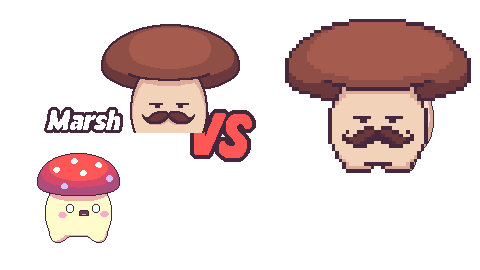
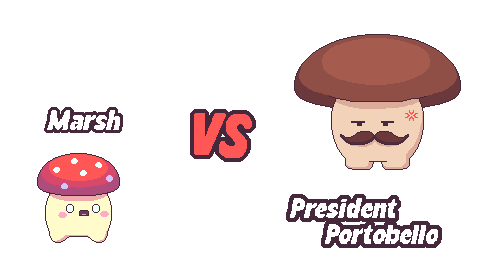
Vs screen graphics + death screen boss names

Changed region(s): [[0.5938, 0.0593, 1.0, 0.6519], [0.1875, 0.0889, 0.5, 0.5037], [0.5938, 0.7111, 0.9375, 0.9185]]

diff --git a/MarshRooms!/Assets/Scripts/BossFights/Bosses/PortobelloBoss.cs b/MarshRooms!/Assets/Scripts/BossFights/Bosses/PortobelloBoss.cs
@@ -260,6 +260,7 @@ public class PortobelloBoss : BossBrain
     private AudioSource burrowLoopSource;
     private bool burrowLoopPausedByUs;
     private readonly List<BaseBullet> activeBullets = new List<BaseBullet>();
+    private string bossName;
 
     protected override void Update()
     {
@@ -290,6 +291,19 @@ public class PortobelloBoss : BossBrain
         weaponAimer = GetComponentInChildren<WeaponAimer>();
         patternShooter = GetComponent<BossPatternShooter>();
         spriteRenderers = GetComponentsInChildren<SpriteRenderer>(true);
+
+        // BossContactDamage's bossName is the single source of truth for "who killed the
+        // player" - every other damage source (bullets, dollar bursts, statues) reads from it
+        // here rather than keeping its own separate copy of the same string.
+        bossName = contact != null ? contact.BossName : "President Portobello";
+        shooter?.SetAttackerName(bossName);
+        patternShooter?.SetAttackerName(bossName);
+
+        if (statueSlots != null)
+        {
+            foreach (StatueController statue in statueSlots)
+                statue?.SetAttackerName(bossName);
+        }
 
         if (throneShadow != null)
         {
@@ -874,6 +888,8 @@ public class PortobelloBoss : BossBrain
         int max = Mathf.Max(min, s.throneActionsMax);
         int actionCount = Random.Range(min, max + 1);
 
+        // A transition visit always has room for both the forced enemies and the forced
+        // laser reveal, even if this phase's normal action-count roll would have been 1.
         if (isTransitionVisit) actionCount = Mathf.Max(actionCount, 2);
 
         ThroneAction? lastThroneAction = null;
@@ -886,7 +902,7 @@ public class PortobelloBoss : BossBrain
             if (i == 0 && s.throneEnemyUsesPerVisit > 0)
                 action = ThroneAction.Enemies;
             else if (isTransitionVisit && i == 1 && activeStatueCount > 0)
-                action = ThroneAction.Statues;
+                action = ThroneAction.Statues; // guaranteed laser reveal right after the forced enemies, transition visits only
             else
                 action = PickThroneAction(s, lastThroneAction, enemyUsesSoFar);
 
@@ -1195,6 +1211,7 @@ public class PortobelloBoss : BossBrain
             PlayerHealth ph = col.GetComponentInParent<PlayerHealth>();
             if (ph == null || ph.IsOnCooldown()) continue;
 
+            ph.SetLastAttacker(bossName);
             ph.TakeDamage(s.burrowSmashDamage);
 
             BaseMover mover = col.GetComponentInParent<BaseMover>();

diff --git a/MarshRooms!/Assets/Scripts/Base/BaseShooter.cs b/MarshRooms!/Assets/Scripts/Base/BaseShooter.cs
@@ -26,7 +26,9 @@ public abstract class BaseShooter : MonoBehaviour
 
     [Header("Split Shot")]
     [SerializeField] private float extraBulletDamageMultiplier = 0.6f;
-    
+
+    public event System.Action<BaseBullet> BulletSpawned;
+
     public bool IsArmed => currentWeapon != null;
 
     protected float nextFireTime = 0f;
@@ -42,6 +44,10 @@ public abstract class BaseShooter : MonoBehaviour
 
     private float bulletSpeedMultiplier = 1f;
     protected float shakeMultiplier = 1f;
+
+    // Who this shooter's bullets should attribute a player death to - set by EnemyController
+    // (from EnemyData.enemyName) for regular enemies, or by the boss's own script for bosses.
+    private string attackerName;
 
     // Fire Rate Multipiers
     private float permanentFireRateMultiplier = 1f;
@@ -64,8 +70,6 @@ public abstract class BaseShooter : MonoBehaviour
 
     private Collider2D playerCollider;
 
-    public event System.Action<BaseBullet> BulletSpawned;
-
     // -1 means infinite ammo
     private int currentAmmo = -1;
 
@@ -77,6 +81,12 @@ public abstract class BaseShooter : MonoBehaviour
 
         wallMask = LayerMask.GetMask("Walls");
         playerCollider = GetComponent<Collider2D>();
+    }
+
+    // -- SET ATTACKER NAME --
+    public void SetAttackerName(string name)
+    {
+        attackerName = name;
     }
 
     // -- BULLET SPEED MULTIPLIER --
@@ -252,6 +262,7 @@ public abstract class BaseShooter : MonoBehaviour
             b.SetDirection(spreadDirection);
             b.SetAimOrigin(firePoint.position);
             b.SetBullet(currentWeapon.bulletSpeed * bulletSpeedMultiplier, rolledDamage, currentWeapon.hitKnockback, currentWeapon.hitPrefab, weaponSprite.sortingOrder, currentWeapon.wallHitClip, currentWeapon.wallHitVolume);
+            b.SetAttackerName(attackerName);
             lastBullet = b;
             BulletSpawned?.Invoke(b);
         }

diff --git a/MarshRooms!/Assets/Scripts/BossFights/SpikeHazard.cs b/MarshRooms!/Assets/Scripts/BossFights/SpikeHazard.cs
@@ -1,8 +1,3 @@
-// One spike (fork, knife or spoon). A target appears under the player (charge, then a looping "loading"
-// animation), the cutlery shoots up, stays up briefly, then retracts and the object destroys itself.
-// Damage is a circle check while it's up, NOT a collider, so it never absorbs the player's bullets.
-// Put one on each spike prefab. The prefab needs an Animator (see the trigger names below) and no collider.
-
 using System.Collections;
 using UnityEngine;
 
@@ -22,6 +17,7 @@ public class SpikeHazard : MonoBehaviour
     [SerializeField] private float damage = 4f;
     [SerializeField] private float hitRadius = 0.5f;
     [SerializeField] private Vector2 hitOffset;
+    [SerializeField] private string attackerName = "Hazard";
 
     [Header("Audio / FX")]
     [SerializeField] private AudioClip targetClip;
@@ -46,6 +42,12 @@ public class SpikeHazard : MonoBehaviour
     {
         anim = GetComponentInChildren<Animator>();
         playerMask = LayerMask.GetMask("Player", "PlayerInvincible");
+    }
+
+    // -- SET ATTACKER NAME --
+    public void SetAttackerName(string name)
+    {
+        attackerName = name;
     }
 
     // -- BEGIN --
@@ -102,6 +104,7 @@ public class SpikeHazard : MonoBehaviour
             PlayerHealth playerHealth = hit.GetComponentInParent<PlayerHealth>();
             if (playerHealth == null || playerHealth.IsOnCooldown()) continue;
 
+            playerHealth.SetLastAttacker(attackerName);
             playerHealth.TakeDamage(damage);
             return;
         }

diff --git a/MarshRooms!/Assets/Scripts/BossFights/BossPatternShooter.cs b/MarshRooms!/Assets/Scripts/BossFights/BossPatternShooter.cs
@@ -7,6 +7,7 @@ using UnityEngine;
 public class BossPatternShooter : MonoBehaviour
 {
     [SerializeField] private Transform origin;
+    [SerializeField] private string attackerName = "Boss";
 
     public event System.Action<GameObject> BulletSpawned;
 
@@ -34,6 +35,12 @@ public class BossPatternShooter : MonoBehaviour
             WeaponAimer aimer = GetComponentInChildren<WeaponAimer>();
             origin = aimer != null ? aimer.transform : transform;
         }
+    }
+
+    // -- SET ATTACKER NAME --
+    public void SetAttackerName(string name)
+    {
+        attackerName = name;
     }
 
     // -- THROW --
@@ -93,6 +100,7 @@ public class BossPatternShooter : MonoBehaviour
             bullet.SetDirection(p.direction);
             bullet.SetAimOrigin(center);
             bullet.SetBullet(hangs ? 0f : speed, damage, weapon.hitKnockback, weapon.hitPrefab, sortingOrder, weapon.wallHitClip, weapon.wallHitVolume);
+            bullet.SetAttackerName(attackerName);
 
             BulletSpawned?.Invoke(go);
             knives.Add(new PendingKnife { bullet = bullet, offset = p.offset, direction = p.direction, speed = speed, damage = damage });

diff --git a/MarshRooms!/Assets/Scripts/Base/BaseBullet.cs b/MarshRooms!/Assets/Scripts/Base/BaseBullet.cs
@@ -15,6 +15,8 @@ public class BaseBullet : MonoBehaviour
     protected Vector2 aimOrigin;
     protected AudioClip wallHitClip;
     protected float wallHitVolume;
+    
+    protected string attackerName;
 
     protected virtual void Start() { }
 
@@ -30,6 +32,12 @@ public class BaseBullet : MonoBehaviour
     public void SetAimOrigin(Vector2 origin)
     {
         aimOrigin = origin;
+    }
+
+    // -- SET ATTACKER NAME --
+    public void SetAttackerName(string name)
+    {
+        attackerName = name;
     }
 
     // --  SET BULLET --
@@ -57,6 +65,12 @@ public class BaseBullet : MonoBehaviour
 
         if (health != null)
         {
+            if (!string.IsNullOrEmpty(attackerName))
+            {
+                PlayerHealth playerHealth = health as PlayerHealth;
+                playerHealth?.SetLastAttacker(attackerName);
+            }
+
             health.TakeDamage(damage);
 
             BaseMover mover = collision.GetComponentInParent<BaseMover>();

diff --git a/MarshRooms!/Assets/Scripts/BossFights/StatueController.cs b/MarshRooms!/Assets/Scripts/BossFights/StatueController.cs
@@ -21,6 +21,7 @@ public class StatueController : MonoBehaviour
     [SerializeField] private float damage = 2f;
     [SerializeField] private float tickInterval = 0.25f;
     [SerializeField] private float beamHideDelay = 0.4f;
+    [SerializeField] private string attackerName = "Lasers";
 
     [Header("Audio")]
     [SerializeField] private AudioClip chargeClip;
@@ -39,6 +40,12 @@ public class StatueController : MonoBehaviour
     {
         gameObject.SetActive(true);
         animator?.SetTrigger(TrigSpawn);
+    }
+
+    // -- SET ATTACKER NAME --
+    public void SetAttackerName(string name)
+    {
+        attackerName = name;
     }
 
     private Coroutine activeFireRoutine;

diff --git a/MarshRooms!/Assets/Scripts/BossFights/Bosses/ChefPuffsBoss.cs b/MarshRooms!/Assets/Scripts/BossFights/Bosses/ChefPuffsBoss.cs
@@ -273,6 +273,12 @@ public class ChefPuffsBoss : BossBrain
         shooter = GetComponent<EnemyShooter>();
         weaponAimer = GetComponentInChildren<WeaponAimer>();
         patternShooter = GetComponent<BossPatternShooter>();
+
+        // BossContactDamage's bossName is the single source of truth for "who killed the
+        // player" - every other damage source (croissant/knife bullets) reads from it here.
+        string bossName = contact != null ? contact.BossName : "Chef Puffs";
+        shooter?.SetAttackerName(bossName);
+        patternShooter?.SetAttackerName(bossName);
     }
 
     // -- ENABLE --

diff --git a/MarshRooms!/Assets/Scripts/BossFights/BossContactDamage.cs b/MarshRooms!/Assets/Scripts/BossFights/BossContactDamage.cs
@@ -5,6 +5,9 @@ using TopDown.Movement;
 
 public class BossContactDamage : MonoBehaviour
 {
+    [SerializeField] private string bossName = "Boss";
+    public string BossName => bossName;
+
     private float damage;
     private float knockback;
 
@@ -23,6 +26,7 @@ public class BossContactDamage : MonoBehaviour
 
         if (playerHealth.IsOnCooldown()) return;
 
+        playerHealth.SetLastAttacker(bossName);
         playerHealth.TakeDamage(damage);
 
         BaseMover playerMover = collision.GetComponentInParent<BaseMover>();

diff --git a/MarshRooms!/Assets/Scripts/Enemies/EnemyController.cs b/MarshRooms!/Assets/Scripts/Enemies/EnemyController.cs
@@ -106,6 +106,7 @@ public class EnemyController : MonoBehaviour
             weaponToEquip = eliteModifier.ApplyWeaponModifiers(weaponToEquip);
 
         shooter.EquipWeapon(weaponToEquip);
+        shooter.SetAttackerName(Data.enemyName);
     }
 
     // -- SET SHOULD SPAWN ANIMATE --
